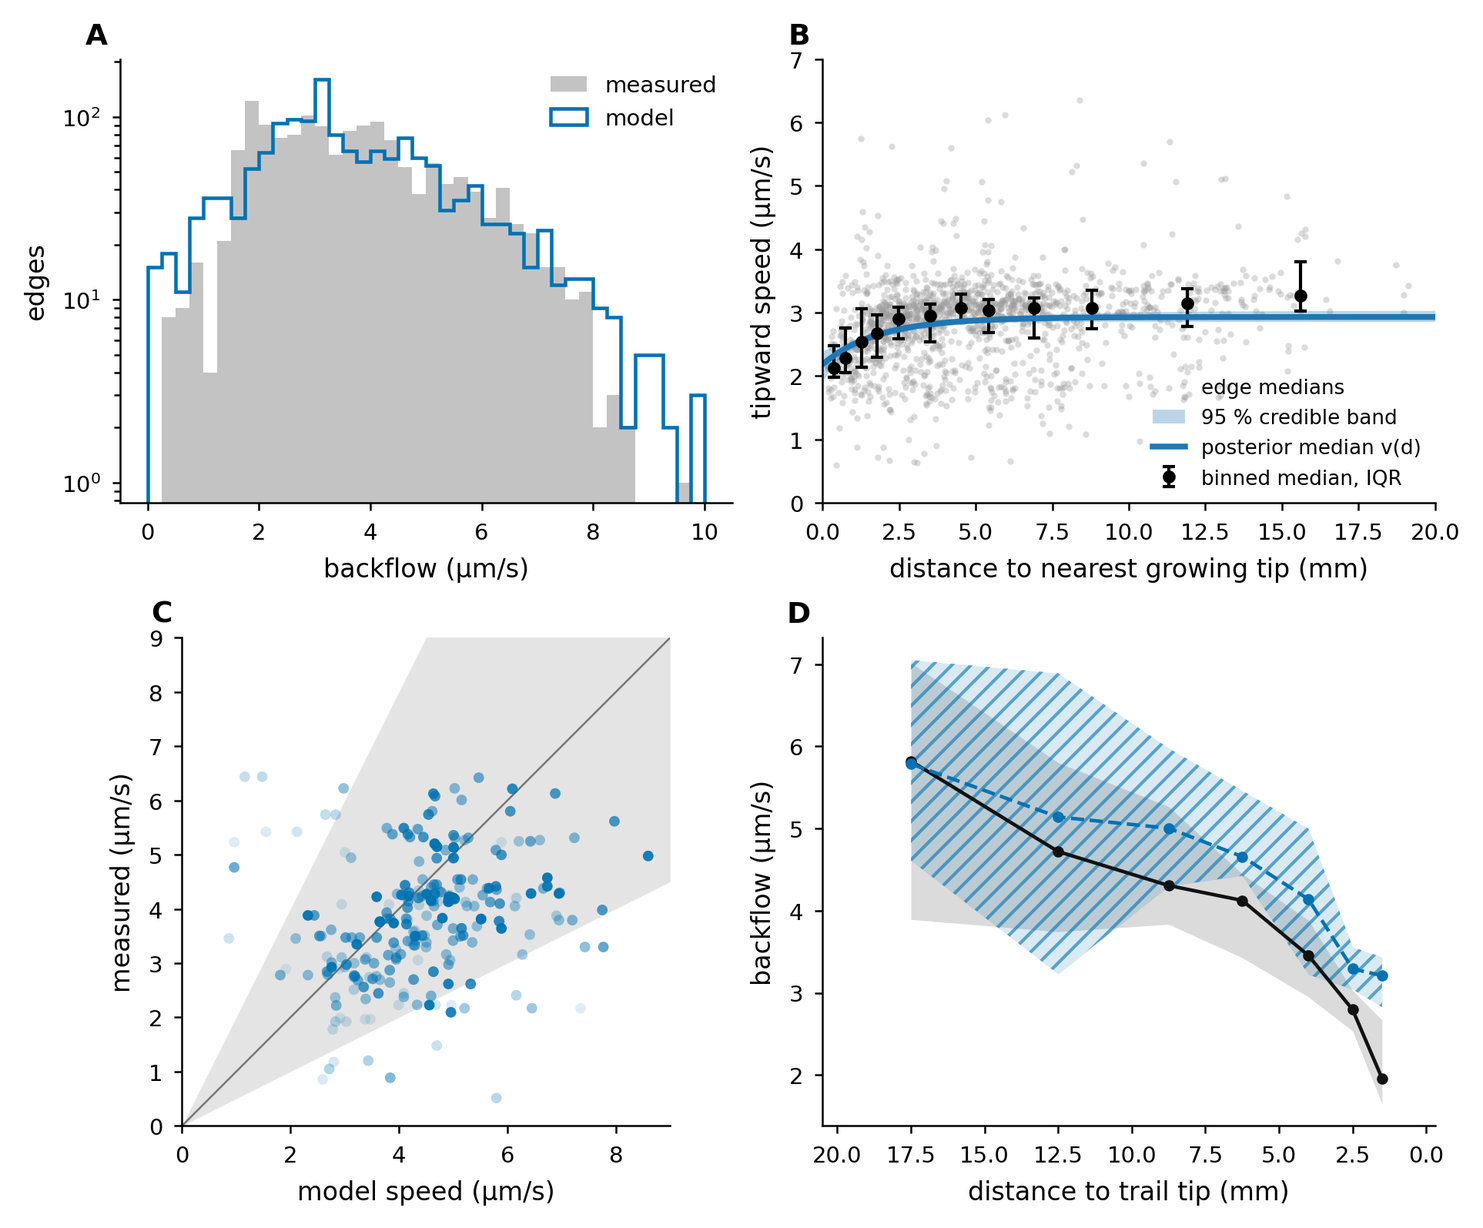
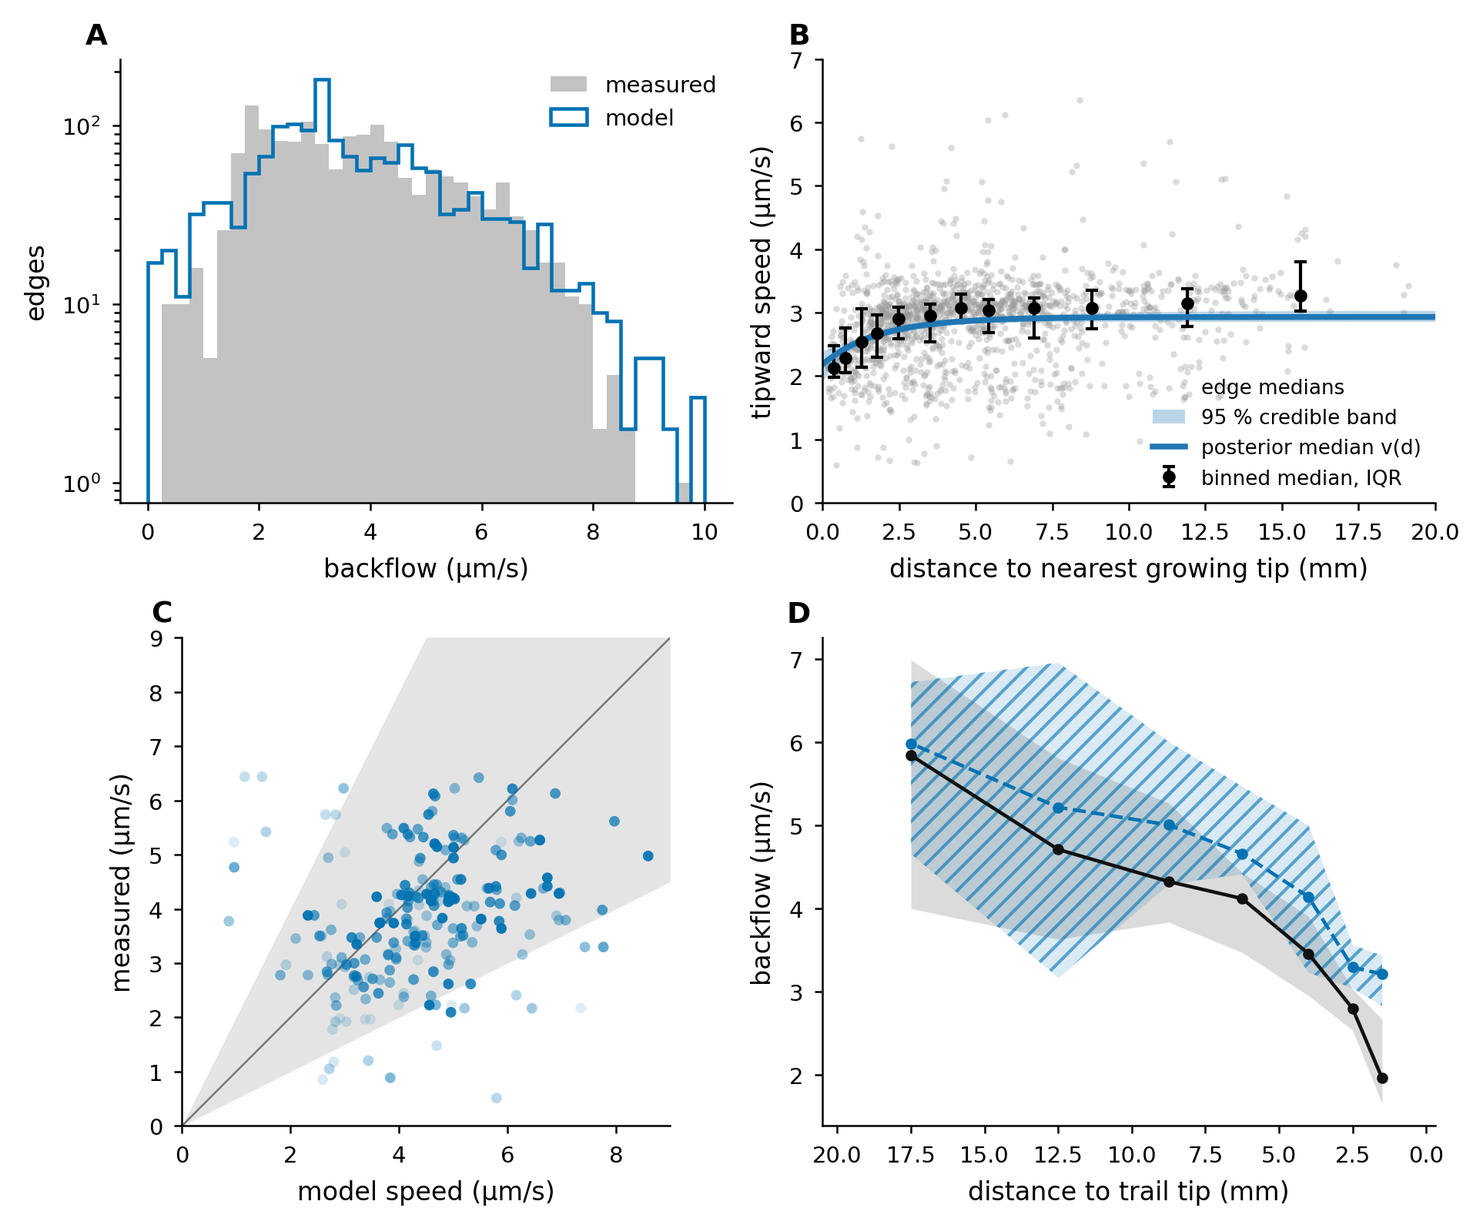
more figure stuff

diff --git a/01_Article_MainText.tex b/01_Article_MainText.tex
@@ -32,7 +32,6 @@ Our data suggest that carbon, as lipid, travels towards the growing tips within 
 Our findings also suggest a tight coupling between network growth, internal carbon (lipid) transport dynamics, and bidirectional fluid movement within the network.
 In an open pipe system, moving this condensate towards the tips pushes cytoplasmic fluid back towards the root, a backflow that may carry phosphorus.
 Our model provides an intuitive understanding for the observed proportionality in resource exchange between the two organisms.
-% NOTE (15 Oct, main-text review): According to the C/P note in the Discussion, the model makes the returning volume proportional to the motor-carried carbon by construction (slope 1.000), but not to growth carbon (slope 0.19, 95 % CI -0.47 to 0.86, 15 sessions), so 'understanding of the observed proportionality' needs that qualifier. Also, the perturbations listed are segment cuts and osmotic shocks, and the root cut is missing.
 \end{abstract}
 
 \section*{Introduction}
@@ -82,8 +81,8 @@ From these data and findings, we construct a minimal model that explains the obs
 Fungal networks grow through the extension of fungal tips away from the root of the host plant.
 Over time, these elongated hyphae develop into a branched mycelial structure.
 The network's topological context therefore varies along the length of a hypha.
-Close to a growing tip, the network is more tree-like: 40\% of the edges within 1~mm of a tip are bridges, that is, not part of any loop, versus 11--14\% of the edges further than 2~mm from a tip (SI Fig.~\ref{fig:tree_like_share}).
-% NOTE (29 Oct, Figs 1 and 2 rebuilt on the current main model, split_even_j10000 with 20 um minimum video edge; PR #12): the Fig 1A inset now gives 85/199/436/562/282 edges per bin (was 86/201/438/568/286) and tree-like shares 38.8 / 20.6 / 10.6 / 10.7 / 13.8 % (was 39.5 / 20.4 / 10.5 / 10.7 / 14.3), so 40 % within 1 mm rounds to 39 %; 11--14 % beyond 2 mm still holds.
+Close to a growing tip, the network is more tree-like: 40\% of the edges within 1~mm of a tip are bridges, that is, not part of any loop, versus 10--14\% of the edges further than 2~mm from a tip (SI Fig.~\ref{fig:tree_like_share}).
+% NOTE (2 Nov, figS_tree_like_share rebuilt on the per-video no-cut tables): tree-like share by tip distance <1 / 1-2 / 2-4 / 4-8 / >8 mm = 40.2 / 20.6 / 9.9 / 10.7 / 13.7 % (n 82 / 189 / 423 / 540 / 263 edges). "40%" holds; "11--14%" beyond 2 mm should read 10--14%.
 Moving away from the tip, more growing hyphae depend on the same runner hypha, and anastomosis (fusion between a hyphal tip and a hyphal segment) creates loops, which give many alternative paths from the tip towards the root~\cite{oyarte_galvez_travelling-wave_2025}.
 
 \begin{figure}
@@ -106,15 +105,15 @@ We imaged flows at high resolution in 731 bright-field videos along the hyphae o
 We chose runner hyphae, the main routes to the root and the edges of high betweenness centrality~\cite{kirkley_betweenness_2018}, where the tipward and rootward flows could be distinguished by eye (SI, \nameref{subsec:si_video_selection}; SI Fig.~\ref{fig:bc_selection}). 
 
 In undisturbed hyphae (SI, \nameref{subsec:si_lid}), the two flows are superimposed in the video and move in straight lines at nearly constant speed, so that in a kymograph every moving particle leaves a straight diagonal streak, with no sign of random or back-and-forth movement, except near the tips (Fig.~\ref{fig:hyphal_profiling}E;\@SI Fig.~\ref{fig:kymograph_examples}).
-In the field of view, the directed movement exceeds diffusion by more than two orders of magnitude, so the slope of a streak is its speed.
-% NOTE (6 Oct, answers Coco's 'why is there little diffusive movement?'): This is a Peclet estimate, to order of magnitude only. It assumes a lipid droplet of 0.5 um diameter, a cytoplasm viscosity 10 times that of water (0.01 Pa s) and T = 295 K, which give D = kT/(6 pi eta r) = 0.09 um^2/s. Over a 10 s kymograph, diffusion covers sqrt(2Dt) = 1.3 um, against 30 um of transport at 3 um/s. With L = 10 um, Pe = vL/D = 350. Check the droplet size and viscosity before submission. The argument is weaker near the tips (Fig 1D kymograph 4); see issue #5.
+In the field of view, the directed movement exceeds diffusion by one to  two orders of magnitude, so the slope of a streak is its speed (SI, \nameref{subsec:si_peclet}).
+% NOTE (2 Nov): cite the estimate here: (SI, \nameref{subsec:si_peclet}); 'more than two orders' -> one to two orders of magnitude (Pe ~ 70 over 10 um, ~ 210 over the 30 um moved in 10 s).
+% NOTE (2 Nov, Peclet estimate redone; Sajitha: droplet ~1 um diameter, viscosity from the constants): eta = 1e-3 Pa s (transport_paper/compute_funcs/constants.py, mu = 1e-3 kg m^-1 s^-1, water; the manuscript has no viscosity in its Methods/SI tables), r = 0.5 um, T = 295 K: D = kT/(6 pi eta r) = 0.43 um^2/s. Over a 10 s kymograph diffusion covers sqrt(2Dt) = 2.9 um against 30 um of transport at 3 um/s (about 10x). Pe = vL/D = 69 for L = 10 um, 208 for L = 30 um (the distance moved in 10 s). So 'more than two orders of magnitude' (l.108) holds only for the 30 um scale; over 10 um or by displacement it is one to two orders (x10-70). The argument is weaker near the tips (slower flow); see issue #5.
 Each streak gives one speed, and each kymograph was reduced to a set of tipward and rootward speeds (SI Fig.~\ref{fig:speed_flux_extraction_real_data}).
 In the histogram of the extracted speeds from a video, the tipward speeds (positive) and the rootward speeds (negative) each form a peak.
 We took the median of each of the two groups as the speed of that direction in that video (Fig.~\ref{fig:hyphal_profiling}E). 
 The tipward speeds slow down near the tip, but stay close to 3~$\mu m / s$ further away (Fig.~\ref{fig:hyphal_profiling}D).
 Rootward speeds generally increase with distance from the tip (Fig.~\ref{fig:hyphal_profiling}D), and have a wide range: the median interquartile range of a hypha's speeds is 1.6~$\mu m / s$ rootward, against 0.6~$\mu m / s$ tipward (SI Fig.~\ref{fig:speed_iqr}).
-This result was confirmed by repeating a similar experiment on various plates over 15 repetitions over 5 plates showing a consistent phenomenology (Fig.~\ref{fig:asymmetries} A, B). 
-% NOTE (15 Oct, main-text review): '15 repetitions over 5 plates' means 15 sessions on 5 plates.
+This result was confirmed by repeating a similar experiment on various plates imaging 15 sessions over 5 plates showing a consistent phenomenology (Fig.~\ref{fig:asymmetries} A, B). 
 
 \begin{figure}
  \centering
@@ -125,21 +124,9 @@ Marginal histograms along the edges.
 Hexagons are coloured by their ratio to 1:1 within a factor 1.3: rootward faster (black), similar (green) or tipward faster (orange); percentages give the share of the data in each class.
 \textbf{(B)} Density of the measured speeds against the distance to the nearest growing tip: tipward (blue) and rootward (pink), with the median per column (dashed) and $\pm 3 ~\mu m/s$ (dotted).
 \textbf{(C)} The same position imaged in bright-field (left) and Nile Red fluorescence (right), 15 seconds apart; bars give the share of the speed-weighted moving signal going to the tip (blue) and to the root (pink).
-\textbf{(D)} Direction bias per video, the share of the speed-weighted moving signal going to the tip (median over the edges of the video; videos with too little directed signal left out), from bright-field (grey, median 0.49) and Nile Red fluorescence (yellow, median 0.57). Due to weak signal in videos, frame rate in fluorescence videos is lower than in bright-field videos, limiting the upper bound on the observed speeds. Therefore, only a subset of the data is shown where the brightfield video carried no fast rootward flows $> 5 \mu m / s$ (Methods, \nameref{subsec:fl_detection_limit}).
+\textbf{(D)} Direction bias per video, the share of the speed-weighted moving signal going to the tip (median over the edges of the video; videos with too little directed signal left out), from bright-field (grey, median 0.49) and Nile Red fluorescence (yellow, median 0.57). Due to weak signal in videos, frame rate in fluorescence videos is lower than in bright-field videos, limiting the upper bound on the observed speeds. Therefore, only a subset of the data (n = 160 pairs) is shown where the brightfield video carried no fast rootward flows $> 5 \mu m / s$ (Methods, \nameref{subsec:fl_detection_limit}).
 Dashed lines: medians; triangles: the example shown in C.}\label{fig:asymmetries}
 \end{figure}
-% NOTE (2 Nov, review of the slow-only Fig 2 v5; transport_paper fig/lipid-bias-slow-only):
-% (1) The lipid paragraph below gives the bright-field median as 0.50; on the slow-only subset of panel D it is 0.49 (Nile Red 0.57).
-% (2) "Dashed lines: medians": in v5 the bright-field median is grey dashed, the Nile Red median black dotted; caption or line style to align.
-% (3) "SI [Lipid bias SI section]" is a placeholder: the part is now an outline at the end of Methods, \nameref{subsec:fl_detection_limit}.     
-% (4) Subset rule as built: both bright-field directions a single slow stream (dominant mode below 5 um/s) AND < 5 % of the bright-field C(v) above 4.5 um/s; "> 5 um/s" in the caption is the short form.
-% (5) No n for the subset in the caption: 160 pairs, 140 Nile Red / 139 bright-field videos, 5 plates (83 pairs at 2 fps, 77 at 1 fps); difference +0.07 [0.04, 0.12], p < 0.001.
-% (6) Panel D in v5 has no on-trail filter (all slow-only pairs), unlike the earlier panel; the triangles mark the new C example (EPY088 t55, pair 14 s apart, so "15 seconds" holds).
-% (7) Nile Red staining is introduced twice (the paragraph ending on direction switching, and "We imaged these lipids with Nile Red ... same positions").
-% (8) The body paragraph does not say that panel D is a subset; the frame-rate reason is only in the caption.
-% NOTE (16 Oct): The fluorescence speed sentences of the next subsection (lipids at 2.42 against 2.95 um/s; 989 against 1,396 rootward streams at 2.20 against 2.91 um/s; the video and edge counts in the bias paragraph) compare fluorescence and bright-field speeds, which Simon decided to drop on 13 Oct (detection limit; the SI comparisons are out). The direction bias (Fig 2D) does not depend on speeds and stays.
-
-% NOTE C12 (30 Oct, per-video measurements, transport_paper PR #167): Fig 2A per video instead of per edge, tipward speed from the same video, on the paper's streak settings: 1,469 edges -> 1,572 video measurements; within 2x of each other 89.9% -> 89.6%; 1:1 / rootward faster / tipward faster 42.3 / 46.4 / 11.3% -> 42.3 / 46.4 / 11.3%; median tipward 2.96 -> 2.97, rootward 3.61 -> 3.62 um/s. The figure itself has not been redrawn for the manuscript yet.
 
 We asked if the asymmetry in the directional speeds could be due to the difference in cell components that would be moving in the two directions, which could inform the mechanism of movement.
 We stained neutral lipids with Nile Red fluorescent dye~\cite{bago_tracking_2002} and imaged the same positions with both bright-field and fluorescence setups (Fig.~\ref{fig:asymmetries}C, D).
@@ -337,7 +324,7 @@ The model allows us to predict on each edge what the net volumetric rate of flui
 We found that our model captures salient features of the bidirectionality of flow observed across all edges.
 One important result is that we are able to capture the distribution of rootward speeds across the network (Fig.~\ref{fig:fig5_plug}A), with 77.5\% of the 1,544 measured rootward speeds within a factor of 2 of the modelled speeds, and a median ratio of modelled to measured speed of 1.05. This was achieved by fitting only one parameter ($\theta$; SI, \nameref{subsec:si_model_variants}) to the measured rootward speeds, and only using physical inputs and the measured tipward speeds.
 
-% NOTE C13 (30 Oct, per-video measurements, transport_paper PR #167): the model tables now keep one row per video (rootward and tipward from the same video) instead of the median over all videos on an edge. On the paper's streak settings and the final model table (model_old_streaks, motor flip off as in the paper reproduction): 1,544 edges -> 1,654 video measurements; within a factor 2 of the model 78% -> 78%; median modelled/measured ratio 1.06 -> 1.05. Trail segments within 10 mm of the tip (Fig 5 caption C, D): 274 -> 283 measurements, within 2x 86% -> 86%, ratio 1.21 -> 1.21; bin counts 3, 14, 19, 65, 73, 100, 130, 88 -> 3, 14, 19, 67, 76, 104, 142, 94. The median fold error in the paragraph ending '1.45' was not recomputed. With the 1.0 um/s bright-field slow-streak cut on top (not yet in the paper): 1,633 measurements, 81%, ratio 0.99.
+% NOTE (2 Nov, Fig 5 rebuilt on the per-video no-cut measurements; transport_paper fig/fig5-per-video fa2bbd7, replaces C13): same Fig 5 model (global solve), one row per video measurement. Edges -> measurements 1,544 -> 1,616 (15 sessions, 5 plates); within 2x 77.5 -> 76.4 %; median model/measured 1.05 -> 1.05; median fold error 1.45 -> 1.46 (l.303); KS 0.056 -> 0.061. Fig 5C trail segments within 10 mm 274 -> 281, within 2x 88 -> 88 %, ratio 1.17 -> 1.16; Fig 5D bins 3/14/19/65/73/100/130/88 -> 3/14/19/65/76/104/141/93; Fig 5B unchanged. Trail stats (>= 5 segments): 35 trails, rho 0.43, p 0.011, median within-trail rho 0.19, rise sign 19/24 (per-edge table: 35 trails, rho 0.39, p 0.022); the trail sentence in the model section ("30 trails ... rho 0.50, p 0.005 ... 0.15") and any other trail-rho statement need these values.
 
 Other model candidates have also been tried out, including one that assumes zero flux within each edge individually, meaning that the pressure field only affects one hypha at a time.
 This would be the case if switching hyphae at junctions carried a resistance penalty.
@@ -345,6 +332,7 @@ The range of backflow speed that can be obtained from such a model failed to enc
 The model also captures the rise in rootward speed with distance from the nearest growing tip (Fig.~\ref{fig:fig5_plug}D), which is a key feature of the observed flows (Fig.~\ref{fig:asymmetries}B).
 An important element of this rise is also the tipward speed falloff, which was estimated with a hierarchical Bayesian model (Fig.~\ref{fig:fig5_plug}B\@; SI, \nameref{subsec:si_forward_flow}).
 Along the filmed trails, the model predicts which trails carry faster rootward flow (Spearman $\rho = 0.39$ between modelled and measured trail medians, 35 trails, $p = 0.022$; Fig.~\ref{fig:fig5_plug}C).
+% NOTE (2 Nov, Fig 5 per video): rho 0.39 / 35 trails / p 0.022 is the per-edge table; on the per-video Fig 5: rho 0.43, p 0.011 (35 trails), median within-trail rho 0.19.
 
 A number of other correlations also emerge from the model (SI, \nameref{subsec:si_tree_loop}; SI Fig.~\ref{fig:relations}). 
 The network structure is a key determinant of the rootward speed, with the model predicting that edges with a higher betweenness centrality have a faster backflow.
@@ -362,7 +350,6 @@ Tipward speeds rise with about the square root of the video-extracted diameter, 
 % DRAFT (18 Oct, for Simon, Results diameter paragraph; 774 filmed edges with the video-extracted diameter, OLS of log speed on log diameter with plate effects and the tip falloff, errors clustered by session): The two streams scale differently with video-extracted diameter: the tipward speed as $D^{0.48}$ (95\% CI 0.43--0.54) and the rootward speed as $D^{1.07}$ (0.94--1.19), twice as steeply. The model reaches $D^{0.83}$ (0.61--1.05) for the rootward speed although its motor speed does not depend on diameter, because wider hyphae carry more routed lipid demand.
 This is consistent with the observed correlation between hyphal diameter and rootward speed (Spearman $\rho = 0.53$ within plates, also after accounting for tip distance) (SI, \nameref{subsec:si_widths}; SI Fig.~\ref{fig:relations}).
 This result was obtained with the video-extracted diameters, which are more accurate than the diameters from the 2x network images.
-% NOTE (17 Oct): Check the magnification of the network imaging ('2x'). 
 
 Even our estimate of 5\% of the cytoplasm filled with lipids suggests that a significant proportion of the volume of the hyphal is filled with lipids.
 Such a proportion could easily lead to clogging if all of the lipids coalesce into a single phase.
@@ -375,7 +362,6 @@ We assume that this emulsion is phase-separated from the bulk cytoplasm.
 
 \namedsubsection{Lipid generated backflow}{subsec:res_backflow}
 
-% NOTE (22 Oct, Simon): old panel F (PNF080 t91 LeftMiddle, rerouted backflow) moved to the SI (subsec:si_rerouting) and the Discussion; the figure still has to be rebuilt without it, with old G relabelled F (fig6_examples.py, worktree min-edge, feat/flow-regime).
 \begin{figure}
     \centering
     \includegraphics[width=\linewidth,height=0.64\textheight,keepaspectratio]{figures/fig6_model_examples.png}
@@ -410,6 +396,7 @@ We also show other examples of the model's predictions on other plates (Fig.~\re
 One trail on each of the other plates: PNF072 t37 Middle (26 segments, 92\% within a factor of 2), LPD025 t50 Middle (32, 94\%), STR112 t60 LeftMiddle (21, 86\%).
 % NOTE (2 Nov, plate labels): as the Fig 6E caption: plate 1, session 1; plate 4, day 12; plate 3, session 4.
 Over the 30 trails with $\geq$5 segments, the model ranks the trails by their median rootward speed ($\rho = 0.50$, $p = 0.005$), but orders segments within a trail only weakly (median within-trail $\rho = 0.15$).
+% NOTE (2 Nov, Fig 5 per video): does not reproduce; per-video Fig 5: 35 trails with >= 5 segments, rho 0.43, p 0.011, median within-trail rho 0.19 (also update the sentence near l.339).
 
 % NOTE (16 Oct, summarized 17 Oct, Fig 4F, other tests): Side branches along the trunks (62 filmed junctions, junction_side_branches.py): the model ranks the side / through speed ratio (rho +0.35, +0.30 beyond width), but its sign (46/62) does not beat the rule 'the side branch is slower' (49/62). Null: the trail's share of local conductance over 1 mm (rho -0.07 after tip distance and demand); 19 junctions with two rootward legs (9-10 of 19 right).
 
@@ -429,6 +416,7 @@ Because the movement of lipids generates fluid flow in the reverse direction, th
 Our model is by design a closed hydraulic circuit, where the volume returning into the roots equals the motor stream leaving them.
 If phosphorus is taken up at the tips, where the condensate turns back, at a concentration [P], the phosphorus delivered to the plant is [P] times the motor volume stream and the carbon carried out is $\theta$ times the motor stream times the carbon density of lipid.
 The exchange ratio $C : P = \theta c_{lipid} / [P]$ is then set by two local quantities and does not depend on network size, shape or growth rate: proportional trade follows from the transport itself, without regulation.
+% NOTE (2 Nov, from abstract review): add qualifier here: return volume is proportional to motor-carried carbon by construction (slope 1.000), not to growth carbon (slope 0.19, 95% CI -0.47 to 0.86; 15 Oct, older model, recheck on the Fig 5 model).
 
 \section*{Discussion}
 
@@ -439,7 +427,6 @@ We also imaged lipid movement using Nile Red staining, and found that the lipid 
 
 In trying to differentiate the mechanisms behind these two streams, we found that an osmotic shock changes only the rootward stream, which is therefore pressure-driven.
 The tipward stream is insensitive to the shock. We interpret it as a lipid-containing condensate carried by molecular motors, but we did not test the motors directly; blocking microtubules or motors and checking whether the tipward stream stops, and the rootward stream with it, would be the decisive experiment.
-% NOTE (2 Nov, lipid bias review): "carries most of the lipid" holds only weakly on the slow-only subset (Nile Red median 0.57, paired shift +0.07); "more of the lipid" is safer. The Fig 2 caption title already dropped it.
 After a root cut both streams continue, so neither needs the plant.
 Isolated segments of a few millimeters keep both streams, about a fifth slower, so both are driven locally. 
 
@@ -447,7 +434,6 @@ For most of the analysis, we rely on bright-field imaging, where the 20 Hz frame
 Because the lid had to stay on during imaging to avoid flows reacting to air flow (SI, \nameref{subsec:si_lid}), a lot of optical resolution was lost between the hyphae and the objective.
 This is exacerbated in fluorescence imaging, where the exposure requirements forced us to image most of those videos at 2 or 1 Hz.
 This put limits on the velocity sample space (SI, \nameref{subsec:si_forward_choices}; Methods, \nameref{subsec:fl_detection_limit}), so a thorough bright-field to fluorescence comparison had to be done on a subset of the videos.
-% NOTE (17 Oct): Removed from the text: 'Perhaps we will add more results from 3D confocal later' (the confocal theta measurement is parked until after submission). 
 
 We also have to be careful about extrapolating the model results to the entirety of the network graph, as there were biases in how the videos were made (SI, \nameref{subsec:si_video_selection}).
 High edge-betweenness edges were favoured to be filmed as opposed to low edge-betweenness edges.

diff --git a/02_Article_Supplementary.tex b/02_Article_Supplementary.tex
@@ -193,6 +193,14 @@ In B the pipeline normalisation was applied to the 20~fps video before averaging
 % \label{fig:tip_root_scatter}
 % \end{figure}
 
+\namedsubsection{Directed transport against diffusion}{subsec:si_peclet}
+% NOTE (2 Nov): section text to be written by Simon (estimate for the main-text claim that the slope of a streak is its speed); facts:
+% NOTE (1) Inputs: lipid droplet diameter about 1 um (r = 0.5 um, Sajitha); viscosity eta = 1e-3 Pa s (water; transport_paper compute_funcs/constants.py, mu); T = 295 K.
+% NOTE (2) Stokes-Einstein: D = k_B T / (6 pi eta r) = 0.43 um^2/s.
+% NOTE (3) Over one 10 s kymograph: diffusive displacement sqrt(2 D t) = 2.9 um, against 30 um of transport at 3 um/s (about 10x).
+% NOTE (4) Peclet number Pe = v L / D at v = 3 um/s: 69 for L = 10 um, 208 for L = 30 um (the distance moved in 10 s); over the full 50x field of view (2048 x 1500 binned pixels at 0.138 um, about 283 x 207 um; Basler acA4112 sensor, Methods) 1,400-2,000.
+% NOTE (5) Caveats: cytoplasm is more viscous than water, which lowers D and raises Pe (10x water: D = 0.043 um^2/s, Pe 690 at 10 um, displacement 0.9 um in 10 s), so water is the conservative case; near growing tips the flow is slower (about 2 um/s), so the margin is smaller there (issue #5).
+
 \namedsubsection{Stitching and graph repair}{subsec:si_stitching}
 % SUGGESTED (20 Oct, Simon): Coco (ideas; graph extraction pipelines): text and the two captions.
 % NOTE (20 Oct): Section text to be written; cited from Methods (Stitching, segmentation and network extraction). Figures from transport_paper feat/flow-regime manuscript/figures (S_stitching.png: stitch_shear_by_station.py; S_graph_repair.png: graph_repair_figure.py; both 21 Sep), captions in the Typst supplement (manuscript/09_supplement.typ, "Acquisition and network").
